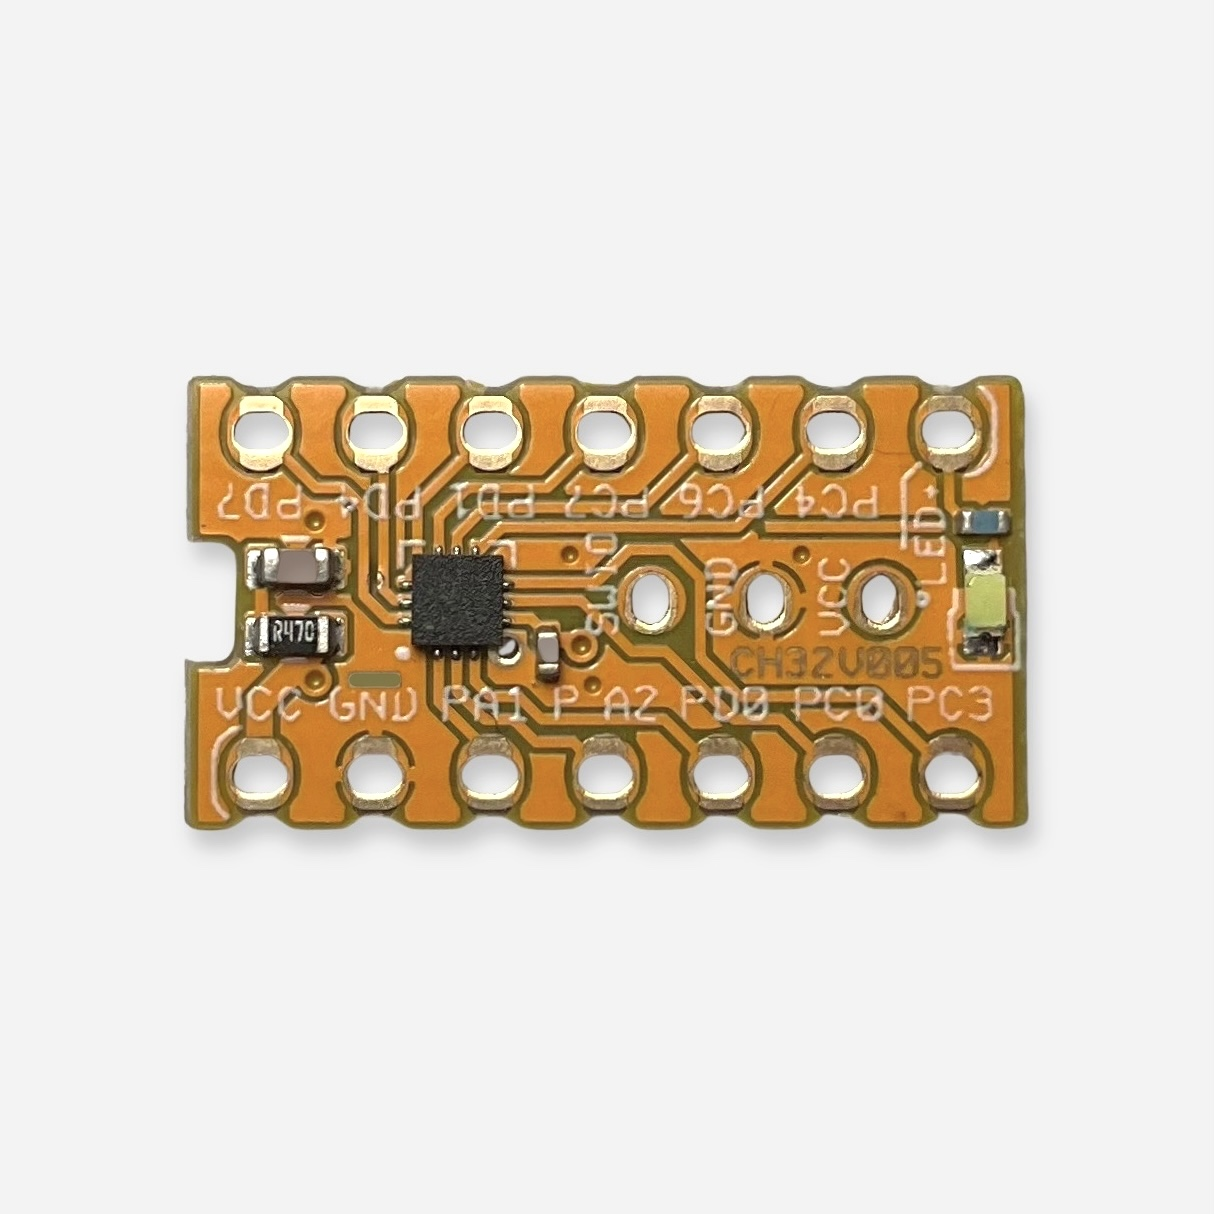
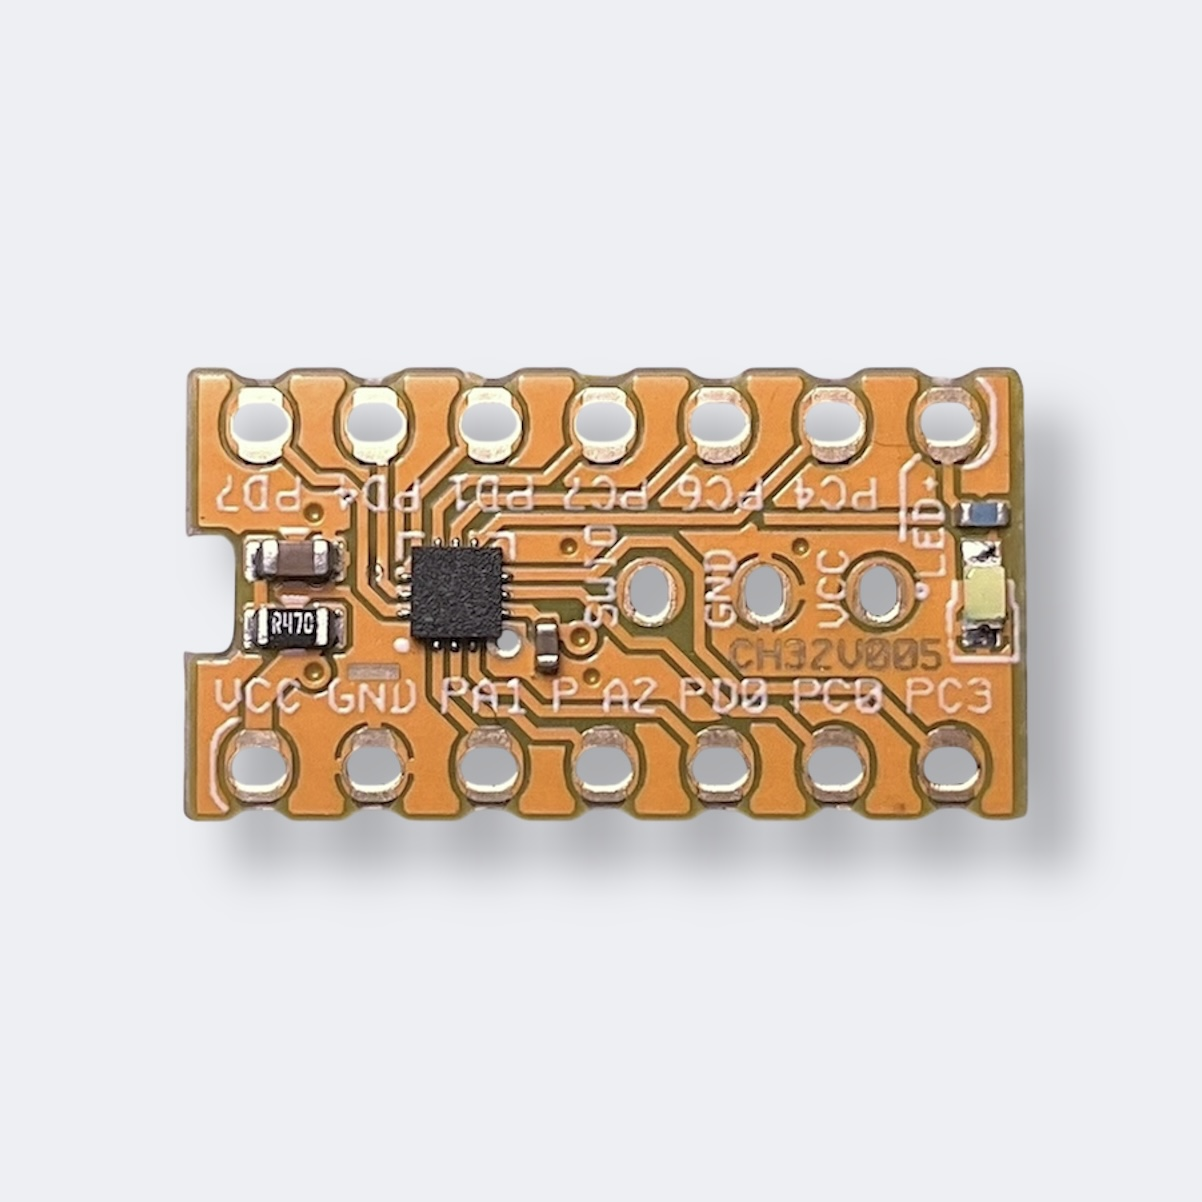
update

Changed region(s): [[0.1539, 0.3078, 0.9235, 0.7388]]

diff --git a/src/content/product/ja/CH32V005-DIP14.md b/src/content/product/ja/CH32V005-DIP14.md
@@ -56,9 +56,10 @@ Product ID: DCY05 | RoHS Compliant
 ## ギャラリー
 
 <div class="photo-gallery">
-  <img src="/img/product/DCY05-photo-top-A.jpg" alt="Product photo 1" />
+  <img src="/img/product/DCY05-photo2.jpg" alt="Product photo 3" />
+  <img src="/img/product/DCY05-photo-top.jpg" alt="Product photo 1" />
   <img src="/img/product/DCY05-photo-bottom-A.jpg" alt="Product photo 2" />
-  <img src="/img/product/DCY05-photo-breadboard.jpg" alt="Product photo 3" />
+  <img src="/img/product/DCY05-photo-breadboard.jpg" alt="Product photo 4" />
 </div>
 
 ## ビデオ
